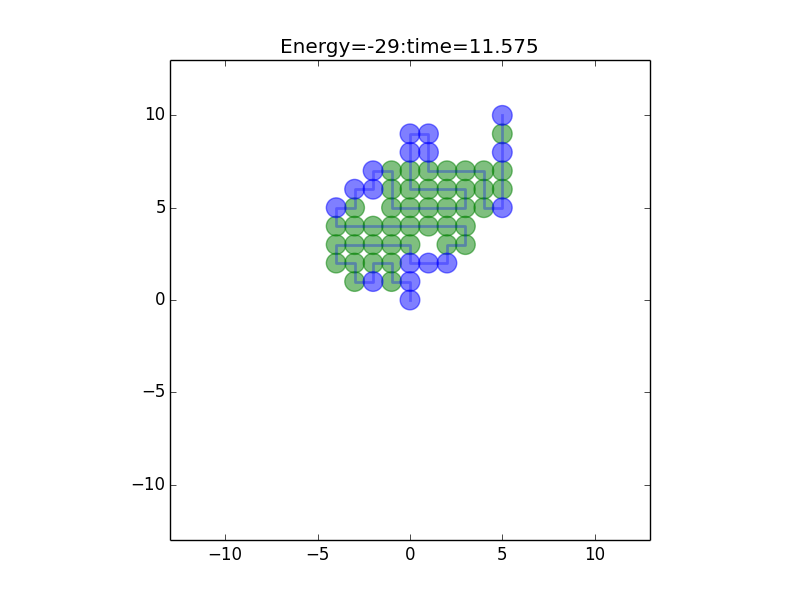
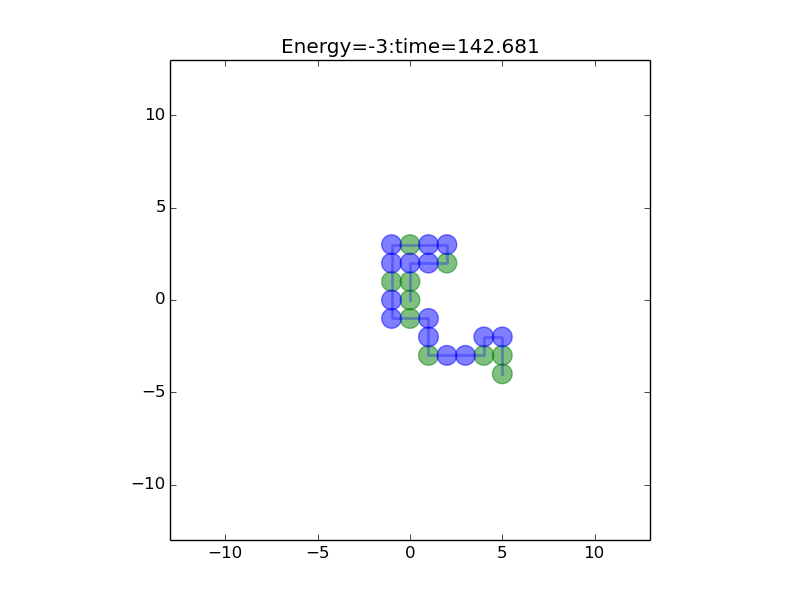
before pulling

diff --git a/c/soa_c.c b/c/soa_c.c
@@ -49,14 +49,14 @@ int show(unit *peptide,int seq_size);
 int main(int argv,char *argc[]){
     //int seq[]={1,0,0,1,0,0,1,1};
     //int seq[]={1,0,0,1,0,0,1,0,1,0,0,1,0,1,0,1,1,1};
-    //int seq[]={1,1,0,0,1,0,0,1,0,0,1,0,0,1,0,0,1,0,0,1,0,0,1,1};
-    int seq[]={0,0,1,1,1,0,1,1,1,1,
-               1,1,1,1,0,0,0,1,1,1,
-               1,1,1,1,1,1,1,0,1,0,
-               0,0,1,1,1,1,1,1,1,1,
-               1,1,1,1,0,0,0,0,1,1,
-               1,1,1,1,0,1,1,0,1,0};
-    
+    int seq[]={1,1,0,0,1,0,0,1,0,0,1,0,0,1,0,0,1,0,0,1,0,0,1,1};
+    /* int seq[]={0,0,1,1,1,0,1,1,1,1, */
+    /*            1,1,1,1,0,0,0,1,1,1, */
+    /*            1,1,1,1,1,1,1,0,1,0, */
+    /*            0,0,1,1,1,1,1,1,1,1, */
+    /*            1,1,1,1,0,0,0,0,1,1, */
+    /*            1,1,1,1,0,1,1,0,1,0}; */
+
     int total_step=atoi(argc[1]);
     int seq_size=sizeof(seq)/sizeof(int);
     constant *constants;

diff --git a/c/do_mc.py b/c/do_mc.py
@@ -5,7 +5,7 @@ matplotlib.use("Agg")
 import matplotlib.pyplot as plt
 
 def ploter(seed):
-    cmdline="./a.out 1000000 " + str(seed)
+    cmdline="./a.out 100000000 " + str(seed)
     output=""
     output=subprocess.check_output(cmdline,shell=True)
 
